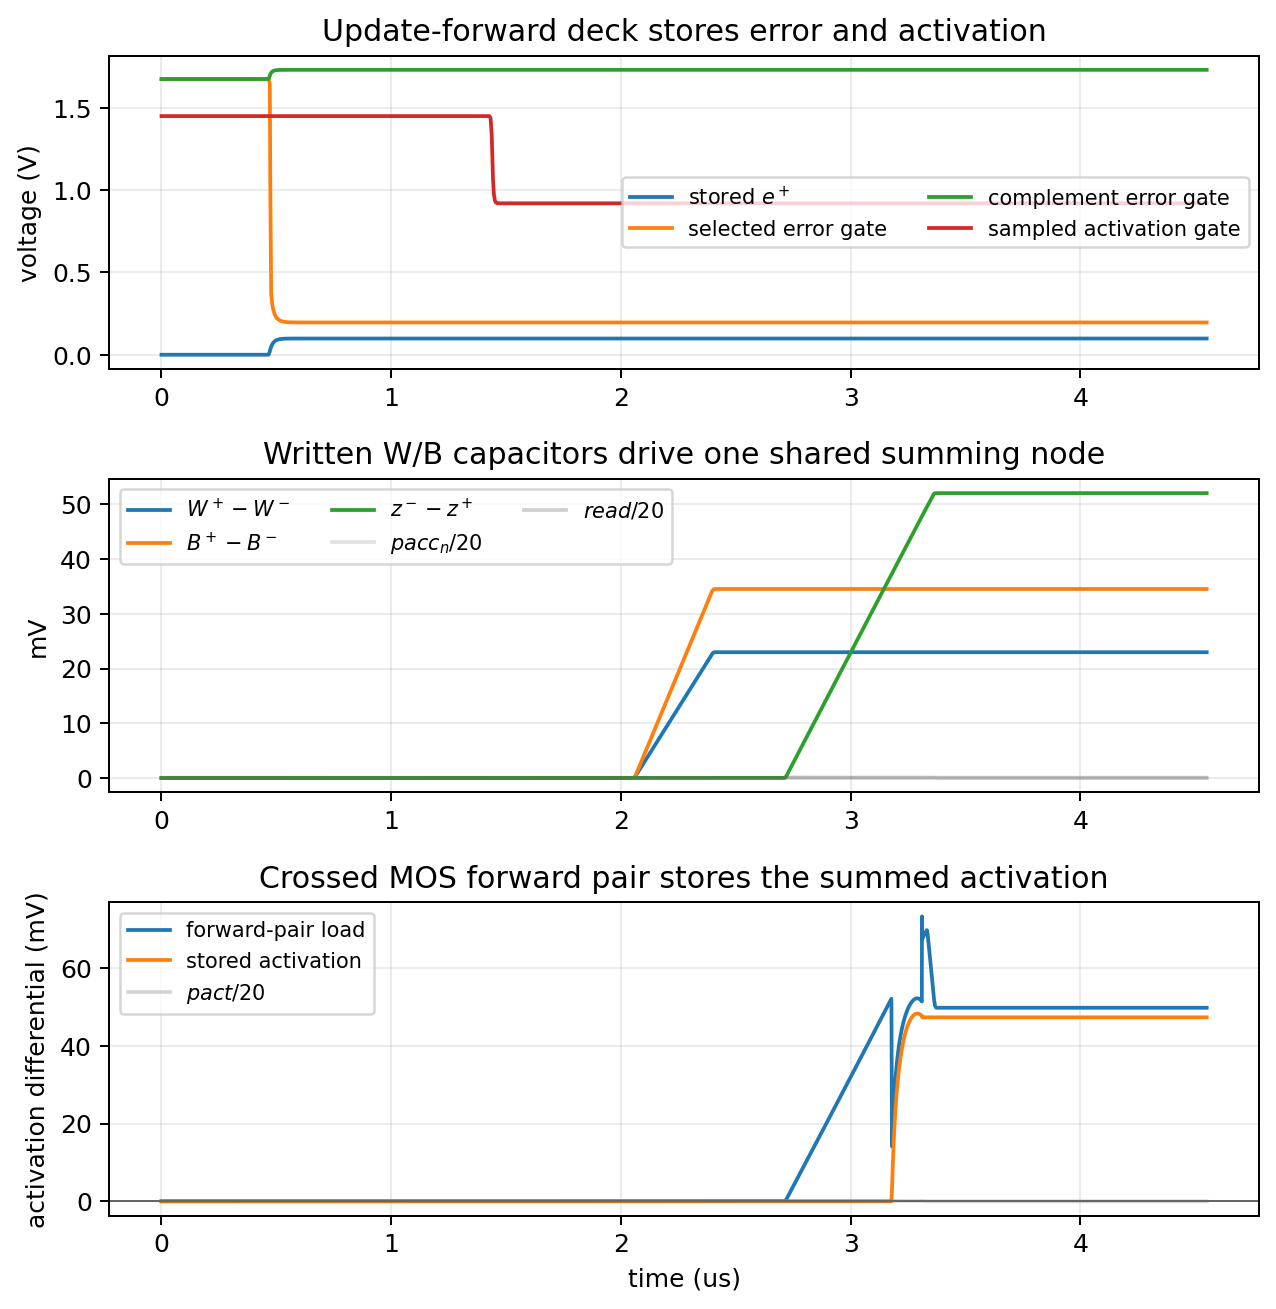
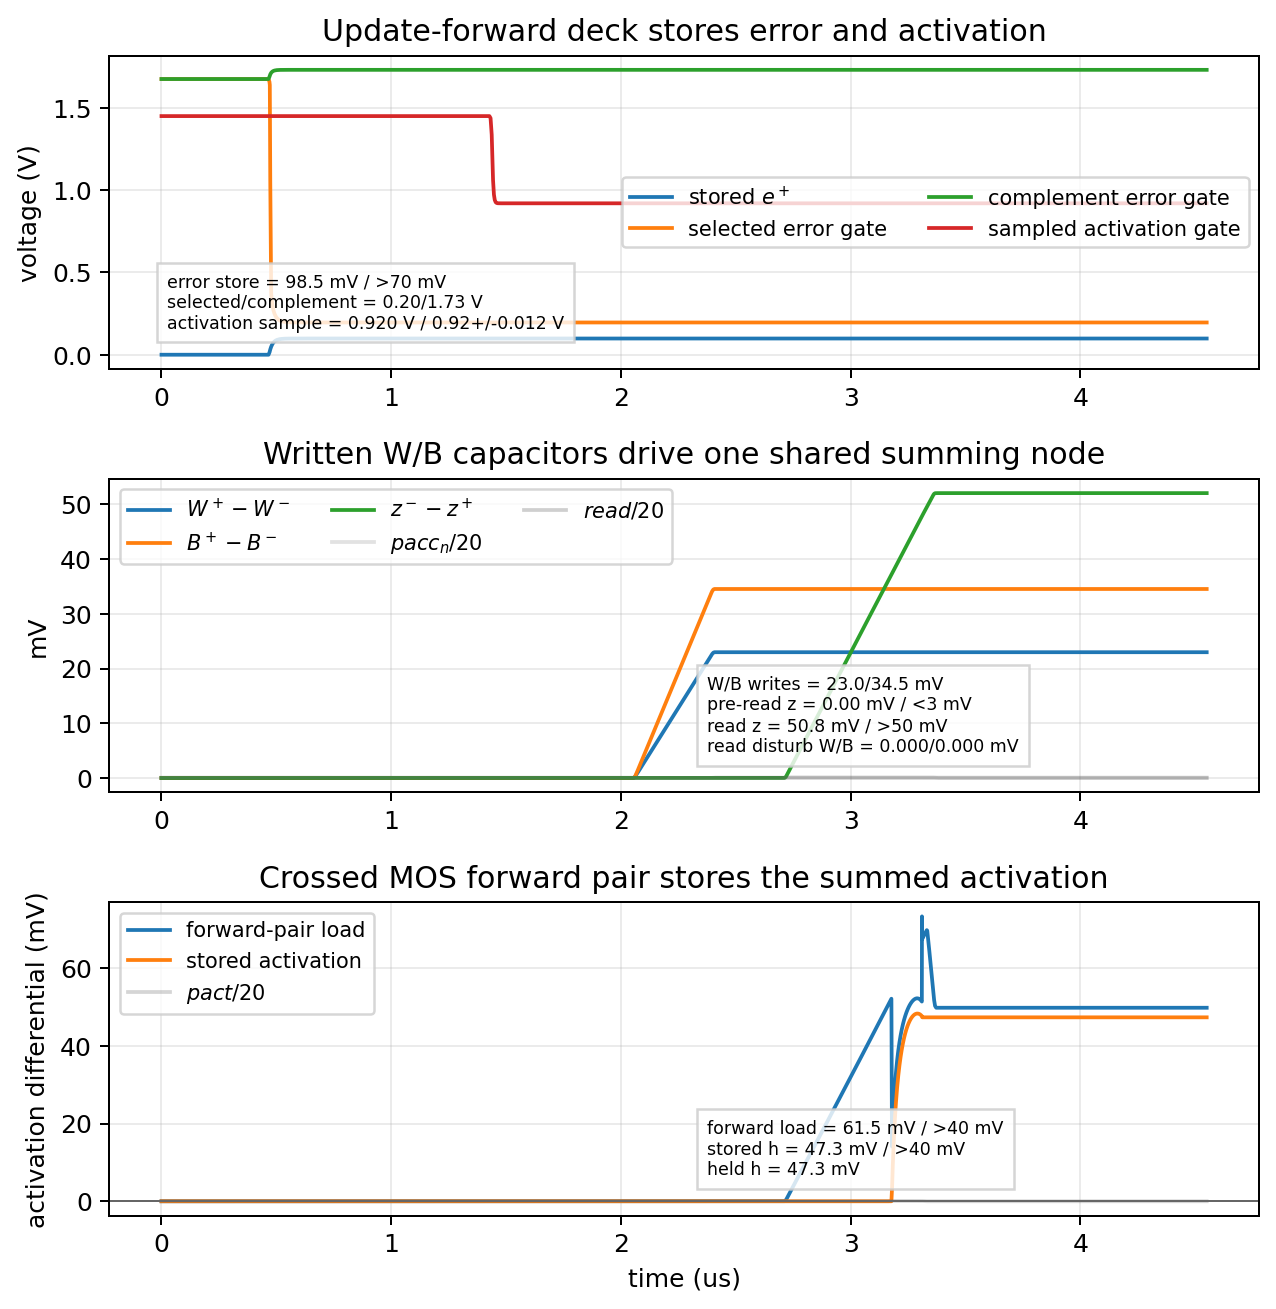
Annotate update-forward integration margins

Changed region(s): [[0.1223, 0.1833, 0.4585, 0.275], [0.5502, 0.4889, 0.7947, 0.5806], [0.5502, 0.8251, 0.7947, 0.9167]]

diff --git a/spice/run_mos_cell_characterization.py b/spice/run_mos_cell_characterization.py
@@ -7962,6 +7962,19 @@ quit
     require(hyvat(4.45e-6, hyv_forward_store) > 0.040, "stored forward activation should hold after pact")
     require(abs(hyvat(4.45e-6, hyv_weight) - hyvat(2.55e-6, hyv_weight)) < 5e-4, "read/forward phases should not disturb weight state")
     require(abs(hyvat(4.45e-6, hyv_bias) - hyvat(2.55e-6, hyv_bias)) < 5e-4, "read/forward phases should not disturb bias state")
+    hyv_hidden_sample = hyvat(1.35e-6, hyv_hidden)
+    hyv_selected_gate_sample = hyvat(1.45e-6, hyv_selected_gate)
+    hyv_complement_gate_sample = hyvat(1.45e-6, hyv_complement_gate)
+    hyv_hcap_sample = hyvat(1.90e-6, hyv_hcap)
+    hyv_weight_sample = hyvat(2.55e-6, hyv_weight)
+    hyv_bias_sample = hyvat(2.55e-6, hyv_bias)
+    hyv_preact_before_read = abs(hyvat(2.60e-6, hyv_preact))
+    hyv_preact_sample = hyvat(3.35e-6, hyv_preact)
+    hyv_forward_load_sample = hyvat(3.35e-6, hyv_forward_load)
+    hyv_forward_store_sample = hyvat(3.50e-6, hyv_forward_store)
+    hyv_forward_store_hold = hyvat(4.45e-6, hyv_forward_store)
+    hyv_weight_read_disturb = abs(hyvat(4.45e-6, hyv_weight) - hyv_weight_sample)
+    hyv_bias_read_disturb = abs(hyvat(4.45e-6, hyv_bias) - hyv_bias_sample)
 
     hyv_fig, hyv_axes = plt.subplots(3, 1, figsize=(7.2, 7.4), gridspec_kw={"height_ratios": [1.0, 1.0, 1.0]})
     hyv_axes[0].plot(1e6 * hyvt, hyv_hidden, label="stored $e^+$")
@@ -7971,6 +7984,19 @@ quit
     hyv_axes[0].set_ylabel("voltage (V)")
     hyv_axes[0].set_title("Update-forward deck stores error and activation")
     hyv_axes[0].grid(True, alpha=0.25)
+    hyv_axes[0].text(
+        0.05,
+        0.13,
+        "error store = "
+        f"{1e3 * hyv_hidden_sample:.1f} mV / >70 mV\n"
+        "selected/complement = "
+        f"{hyv_selected_gate_sample:.2f}/{hyv_complement_gate_sample:.2f} V\n"
+        "activation sample = "
+        f"{hyv_hcap_sample:.3f} V / 0.92+/-0.012 V",
+        transform=hyv_axes[0].transAxes,
+        fontsize="x-small",
+        bbox=callout_box,
+    )
     hyv_axes[0].legend(loc="center right", ncol=2, fontsize="small")
     hyv_axes[1].plot(1e6 * hyvt, 1e3 * hyv_weight, label="$W^+ - W^-$")
     hyv_axes[1].plot(1e6 * hyvt, 1e3 * hyv_bias, label="$B^+ - B^-$")
@@ -7980,6 +8006,21 @@ quit
     hyv_axes[1].set_ylabel("mV")
     hyv_axes[1].set_title("Written W/B capacitors drive one shared summing node")
     hyv_axes[1].grid(True, alpha=0.25)
+    hyv_axes[1].text(
+        0.52,
+        0.13,
+        "W/B writes = "
+        f"{1e3 * hyv_weight_sample:.1f}/{1e3 * hyv_bias_sample:.1f} mV\n"
+        "pre-read z = "
+        f"{1e3 * hyv_preact_before_read:.2f} mV / <3 mV\n"
+        "read z = "
+        f"{1e3 * hyv_preact_sample:.1f} mV / >50 mV\n"
+        "read disturb W/B = "
+        f"{1e3 * hyv_weight_read_disturb:.3f}/{1e3 * hyv_bias_read_disturb:.3f} mV",
+        transform=hyv_axes[1].transAxes,
+        fontsize="x-small",
+        bbox=callout_box,
+    )
     hyv_axes[1].legend(loc="upper left", ncol=3, fontsize="small")
     hyv_axes[2].plot(1e6 * hyvt, 1e3 * hyv_forward_load, label="forward-pair load")
     hyv_axes[2].plot(1e6 * hyvt, 1e3 * hyv_forward_store, label="stored activation")
@@ -7989,6 +8030,19 @@ quit
     hyv_axes[2].set_ylabel("activation differential (mV)")
     hyv_axes[2].set_title("Crossed MOS forward pair stores the summed activation")
     hyv_axes[2].grid(True, alpha=0.25)
+    hyv_axes[2].text(
+        0.52,
+        0.13,
+        "forward load = "
+        f"{1e3 * hyv_forward_load_sample:.1f} mV / >40 mV\n"
+        "stored h = "
+        f"{1e3 * hyv_forward_store_sample:.1f} mV / >40 mV\n"
+        "held h = "
+        f"{1e3 * hyv_forward_store_hold:.1f} mV",
+        transform=hyv_axes[2].transAxes,
+        fontsize="x-small",
+        bbox=callout_box,
+    )
     hyv_axes[2].legend(loc="upper left", fontsize="small")
     hyv_fig.tight_layout()
     save_plot(hyv_fig, "mos_hidden_writer_restored_gate_hybrid_update_forward_ngspice")
@@ -8473,6 +8527,19 @@ quit
     require(abs(hyrat(6.35e-6, hyr_bias)) < 0.004, "reuse second opposite update should cancel bias differential")
     require(abs(hyrat(7.15e-6, hyr_preact)) < 0.001, "reuse cancelled W/B state should read near-zero preactivation")
     require(abs(hyrat(7.45e-6, hyr_forward_store)) < 0.001, "reuse cancelled state should store near-zero activation")
+    hyr_first_hidden = hyrat(1.35e-6, hyr_hidden)
+    hyr_second_hidden = hyrat(5.15e-6, hyr_hidden)
+    hyr_reset_hidden = abs(hyrat(4.10e-6, hyr_hidden))
+    hyr_reset_hcap = abs(hyrat(4.10e-6, hyr_hcap) - 1.45)
+    hyr_first_weight = hyrat(2.55e-6, hyr_weight)
+    hyr_first_bias = hyrat(2.55e-6, hyr_bias)
+    hyr_cancel_weight = abs(hyrat(6.35e-6, hyr_weight))
+    hyr_cancel_bias = abs(hyrat(6.35e-6, hyr_bias))
+    hyr_first_preact = hyrat(3.35e-6, hyr_preact)
+    hyr_reset_preact = abs(hyrat(4.10e-6, hyr_preact))
+    hyr_cancel_preact = abs(hyrat(7.15e-6, hyr_preact))
+    hyr_reset_forward_store = abs(hyrat(4.10e-6, hyr_forward_store))
+    hyr_cancel_forward_store = abs(hyrat(7.45e-6, hyr_forward_store))
 
     hyr_fig, hyr_axes = plt.subplots(3, 1, figsize=(7.4, 7.4), gridspec_kw={"height_ratios": [1.0, 1.0, 1.0]})
     hyr_axes[0].plot(1e6 * hyrt, hyr_hidden, label="stored error differential")
@@ -8483,6 +8550,19 @@ quit
     hyr_axes[0].set_ylabel("voltage (V)")
     hyr_axes[0].set_title("MOS reset reuses the same error and activation storage")
     hyr_axes[0].grid(True, alpha=0.25)
+    hyr_axes[0].text(
+        0.05,
+        0.13,
+        "e1/e2 stores = "
+        f"{1e3 * hyr_first_hidden:.1f}/{1e3 * hyr_second_hidden:.1f} mV\n"
+        "reset error residue = "
+        f"{1e3 * hyr_reset_hidden:.2f} mV / <4 mV\n"
+        "activation reset error = "
+        f"{1e3 * hyr_reset_hcap:.2f} mV / <15 mV",
+        transform=hyr_axes[0].transAxes,
+        fontsize="x-small",
+        bbox=callout_box,
+    )
     hyr_axes[0].legend(loc="center right", ncol=2, fontsize="small")
     hyr_axes[1].plot(1e6 * hyrt, 1e3 * hyr_weight, label="$W^+ - W^-$")
     hyr_axes[1].plot(1e6 * hyrt, 1e3 * hyr_bias, label="$B^+ - B^-$")
@@ -8493,6 +8573,19 @@ quit
     hyr_axes[1].set_ylabel("mV")
     hyr_axes[1].set_title("Opposite second sample cancels persistent W/B differentials")
     hyr_axes[1].grid(True, alpha=0.25)
+    hyr_axes[1].text(
+        0.52,
+        0.13,
+        "first W/B = "
+        f"{1e3 * hyr_first_weight:.1f}/{1e3 * hyr_first_bias:.1f} mV\n"
+        "cancel residue W/B = "
+        f"{1e3 * hyr_cancel_weight:.2f}/{1e3 * hyr_cancel_bias:.2f} mV\n"
+        "read before/cancel z = "
+        f"{1e3 * hyr_first_preact:.1f}/{1e3 * hyr_cancel_preact:.2f} mV",
+        transform=hyr_axes[1].transAxes,
+        fontsize="x-small",
+        bbox=callout_box,
+    )
     hyr_axes[1].legend(loc="upper left", ncol=3, fontsize="small")
     hyr_axes[2].plot(1e6 * hyrt, 1e3 * hyr_forward_load, label="forward load")
     hyr_axes[2].plot(1e6 * hyrt, 1e3 * hyr_forward_store, label="stored activation")
@@ -8502,6 +8595,17 @@ quit
     hyr_axes[2].set_ylabel("activation differential (mV)")
     hyr_axes[2].set_title("Forward store resets, then stays near zero after cancellation")
     hyr_axes[2].grid(True, alpha=0.25)
+    hyr_axes[2].text(
+        0.52,
+        0.13,
+        "reset z/h residue = "
+        f"{1e3 * hyr_reset_preact:.2f}/{1e3 * hyr_reset_forward_store:.2f} mV\n"
+        "cancelled h = "
+        f"{1e3 * hyr_cancel_forward_store:.2f} mV / <1 mV",
+        transform=hyr_axes[2].transAxes,
+        fontsize="x-small",
+        bbox=callout_box,
+    )
     hyr_axes[2].legend(loc="upper left", fontsize="small")
     hyr_fig.tight_layout()
     save_plot(hyr_fig, "mos_hidden_writer_restored_gate_hybrid_update_forward_reuse_ngspice")

diff --git a/engineering_log.md b/engineering_log.md
@@ -808,3 +808,4 @@
 - Added ngspice-derived callouts to the adjacent hybrid activation-control figures. The activation-store plot now shows the stored hidden error (`98.5 mV`), selected/complement restored gates (`0.20/1.73 V`), active activation sample (`0.920 V`), inactive overwrite (`1.450 V`), active write (`25.7 mV`), zero displayed inactive increment, final drift, and complement step. The activation-timing sweep now makes the required sample-before-write ordering explicit: pre-sample write is `0.00 mV`, sample-edge write is `16.7 mV`, settled writes are at least `24.3 mV`, settled spread is `0.00 mV`, and the complement rail stays at `0.000 mV`. The pacc-width sweep now reports the stored hidden/error gates, sampled activation hold, monotone step range (`2.9--43.1 mV`), minimum width increment (`2.7 mV`), linearity (`R2=1.00000`), and zero displayed complement/selected-dominance error. This keeps the figure captions backed by the same ngspice traces and assertions rather than adding a separate hand-written interpretation.
 - Added ngspice-derived callouts to the remaining paper-facing hybrid-writer summary figures: timing-corner, bias-writer, integrated cell-update, and four-quadrant cell-update plots. The regenerated figures now show the same trace-backed margins that the assertions enforce, including selected/complement restored-gate levels, stored error symmetry, inactive-rail suppression, hold error, update/readback magnitudes, pacc timing requirements, and quadrant spread. This did not change circuit behavior; it closes the readability gap for the older hybrid summary plots so the paper figures expose the actual MOS/ngspice evidence instead of requiring readers to trust the captions.
 - Added assertion-derived margin callouts to the basic MOS synapse mismatch and common-mode figures. The mismatch plot now reports the bounded zero offset (`20 mV` max under the +/-20 mV threshold-skew fixture), the mirrored gate-swapped W- zero error, retained current swing, and offset span. The common-mode plot now reports peak-current range (`465--486 uA`), minimum sign margin (`315 uA`), centering error (`0.4%` of peak), and W-/W+ mirror error. Regenerated the synapse family through ngspice and inspected the resulting PNGs; this closes a paper-figure readability gap without changing the underlying circuits or thresholds.
+- Added assertion-derived callouts to the restored-gate hybrid update-to-forward integration and same-cell reuse plots. The single-sample integration plot now shows stored error, selected/complement restored-gate levels, sampled activation, W/B write magnitudes, pre-read quietness, read preactivation, forward-load/store magnitudes, and W/B read-disturb. The reuse plot now shows first/second signed error stores, reset residue, first W/B writes, opposite-update cancellation residue, reset z/h residue, and cancelled final activation. Reran the full `--only update` ngspice suite; all existing update-family assertions still pass, and the two regenerated PNGs now expose the measured integration margins directly.
